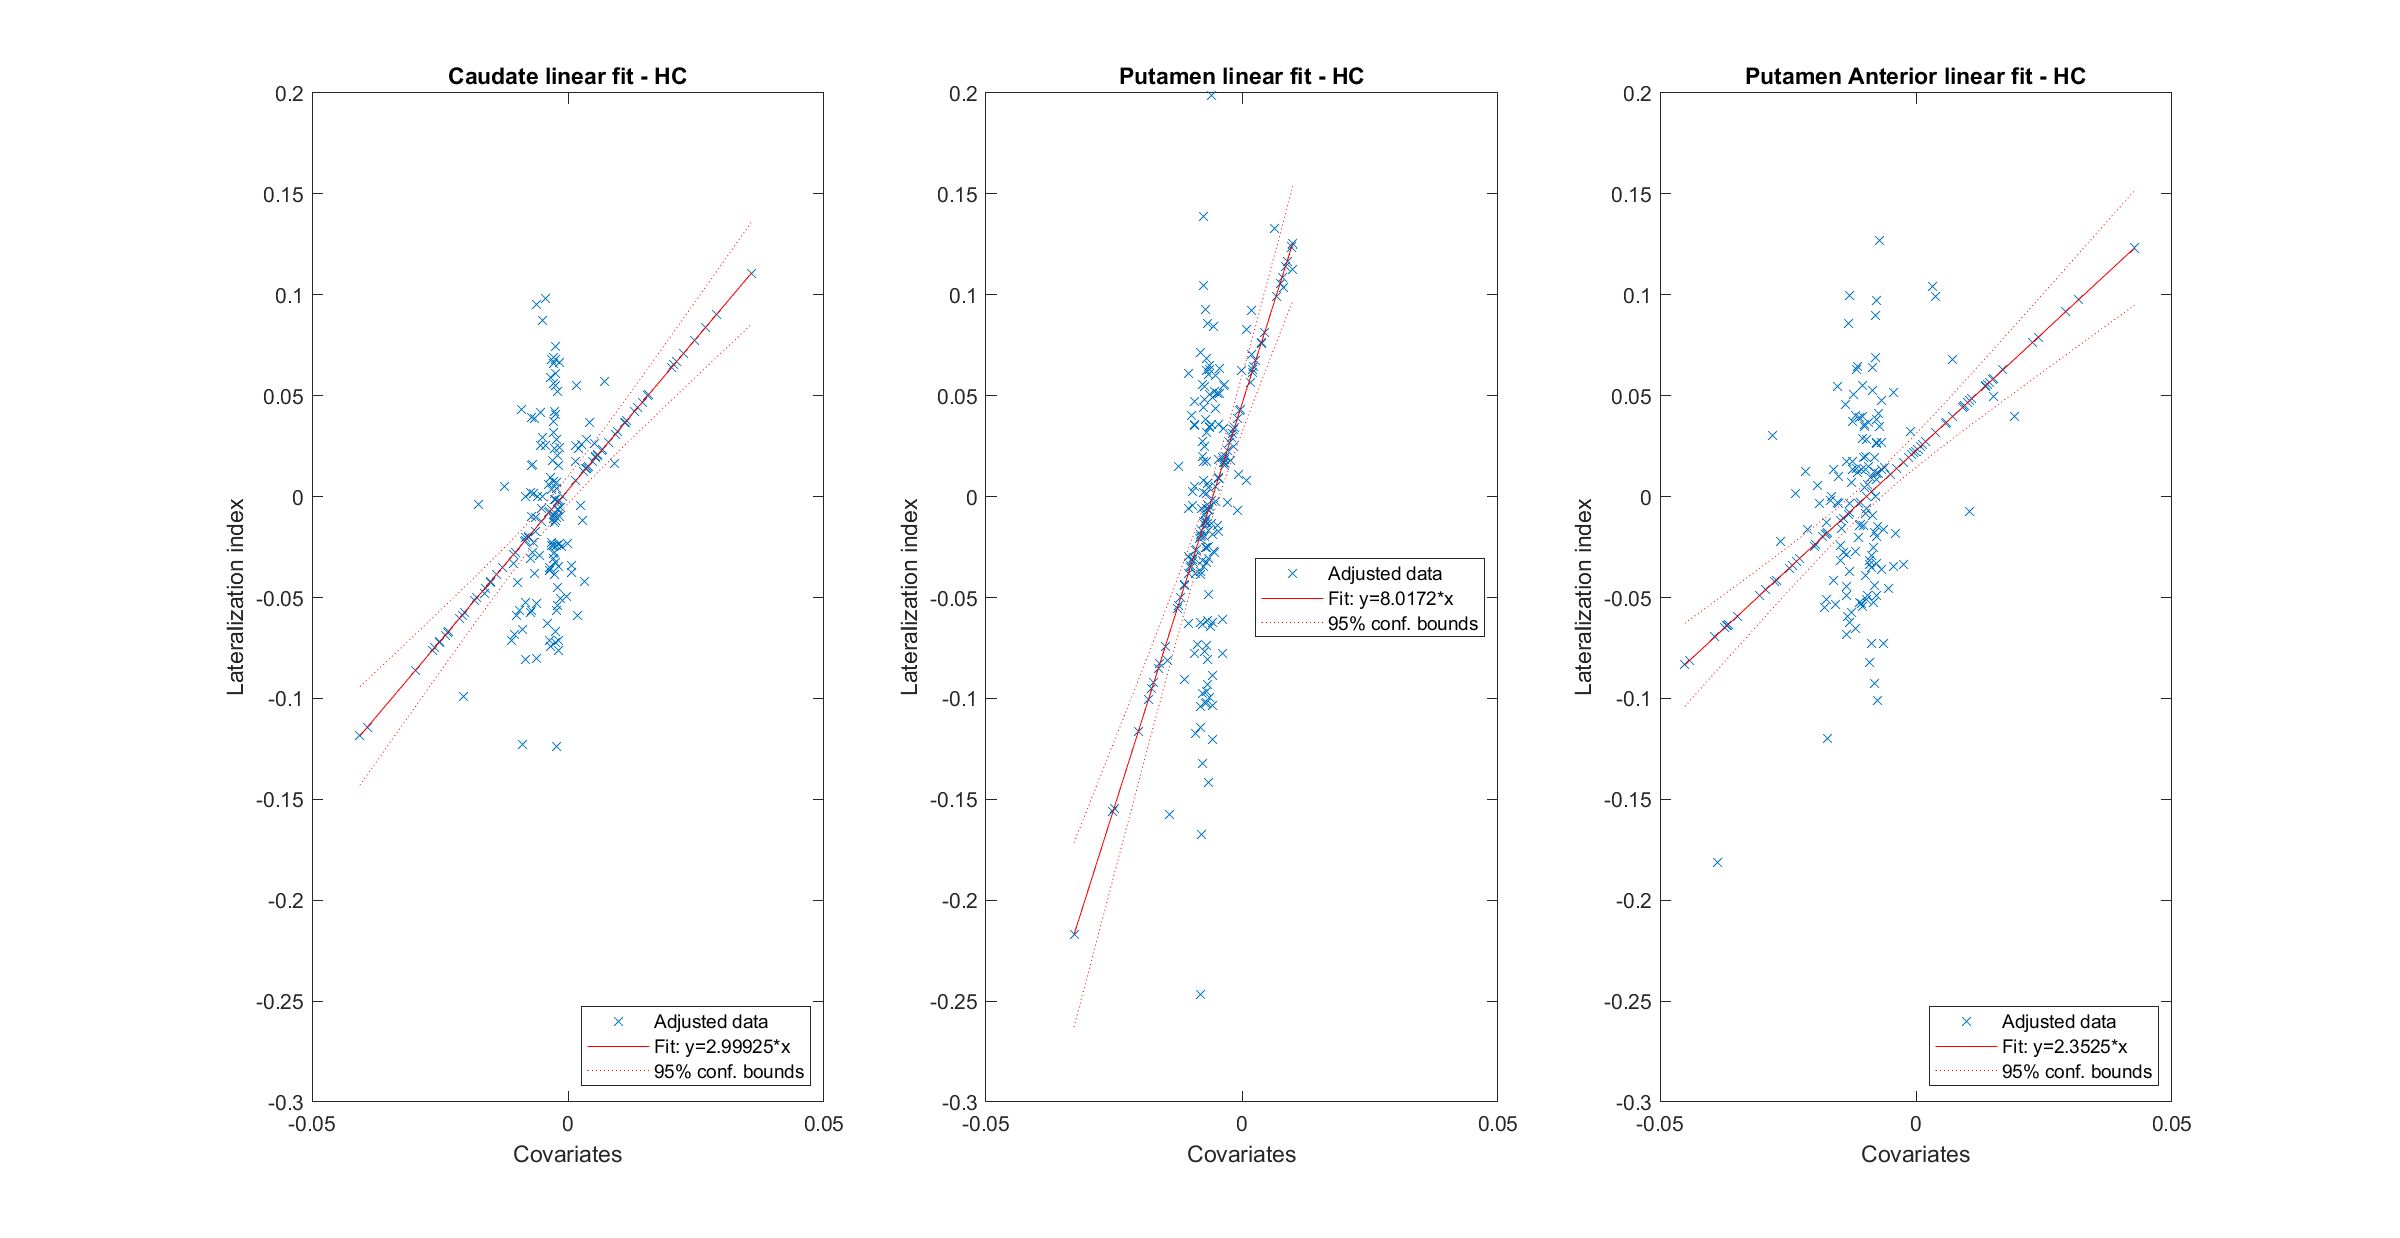
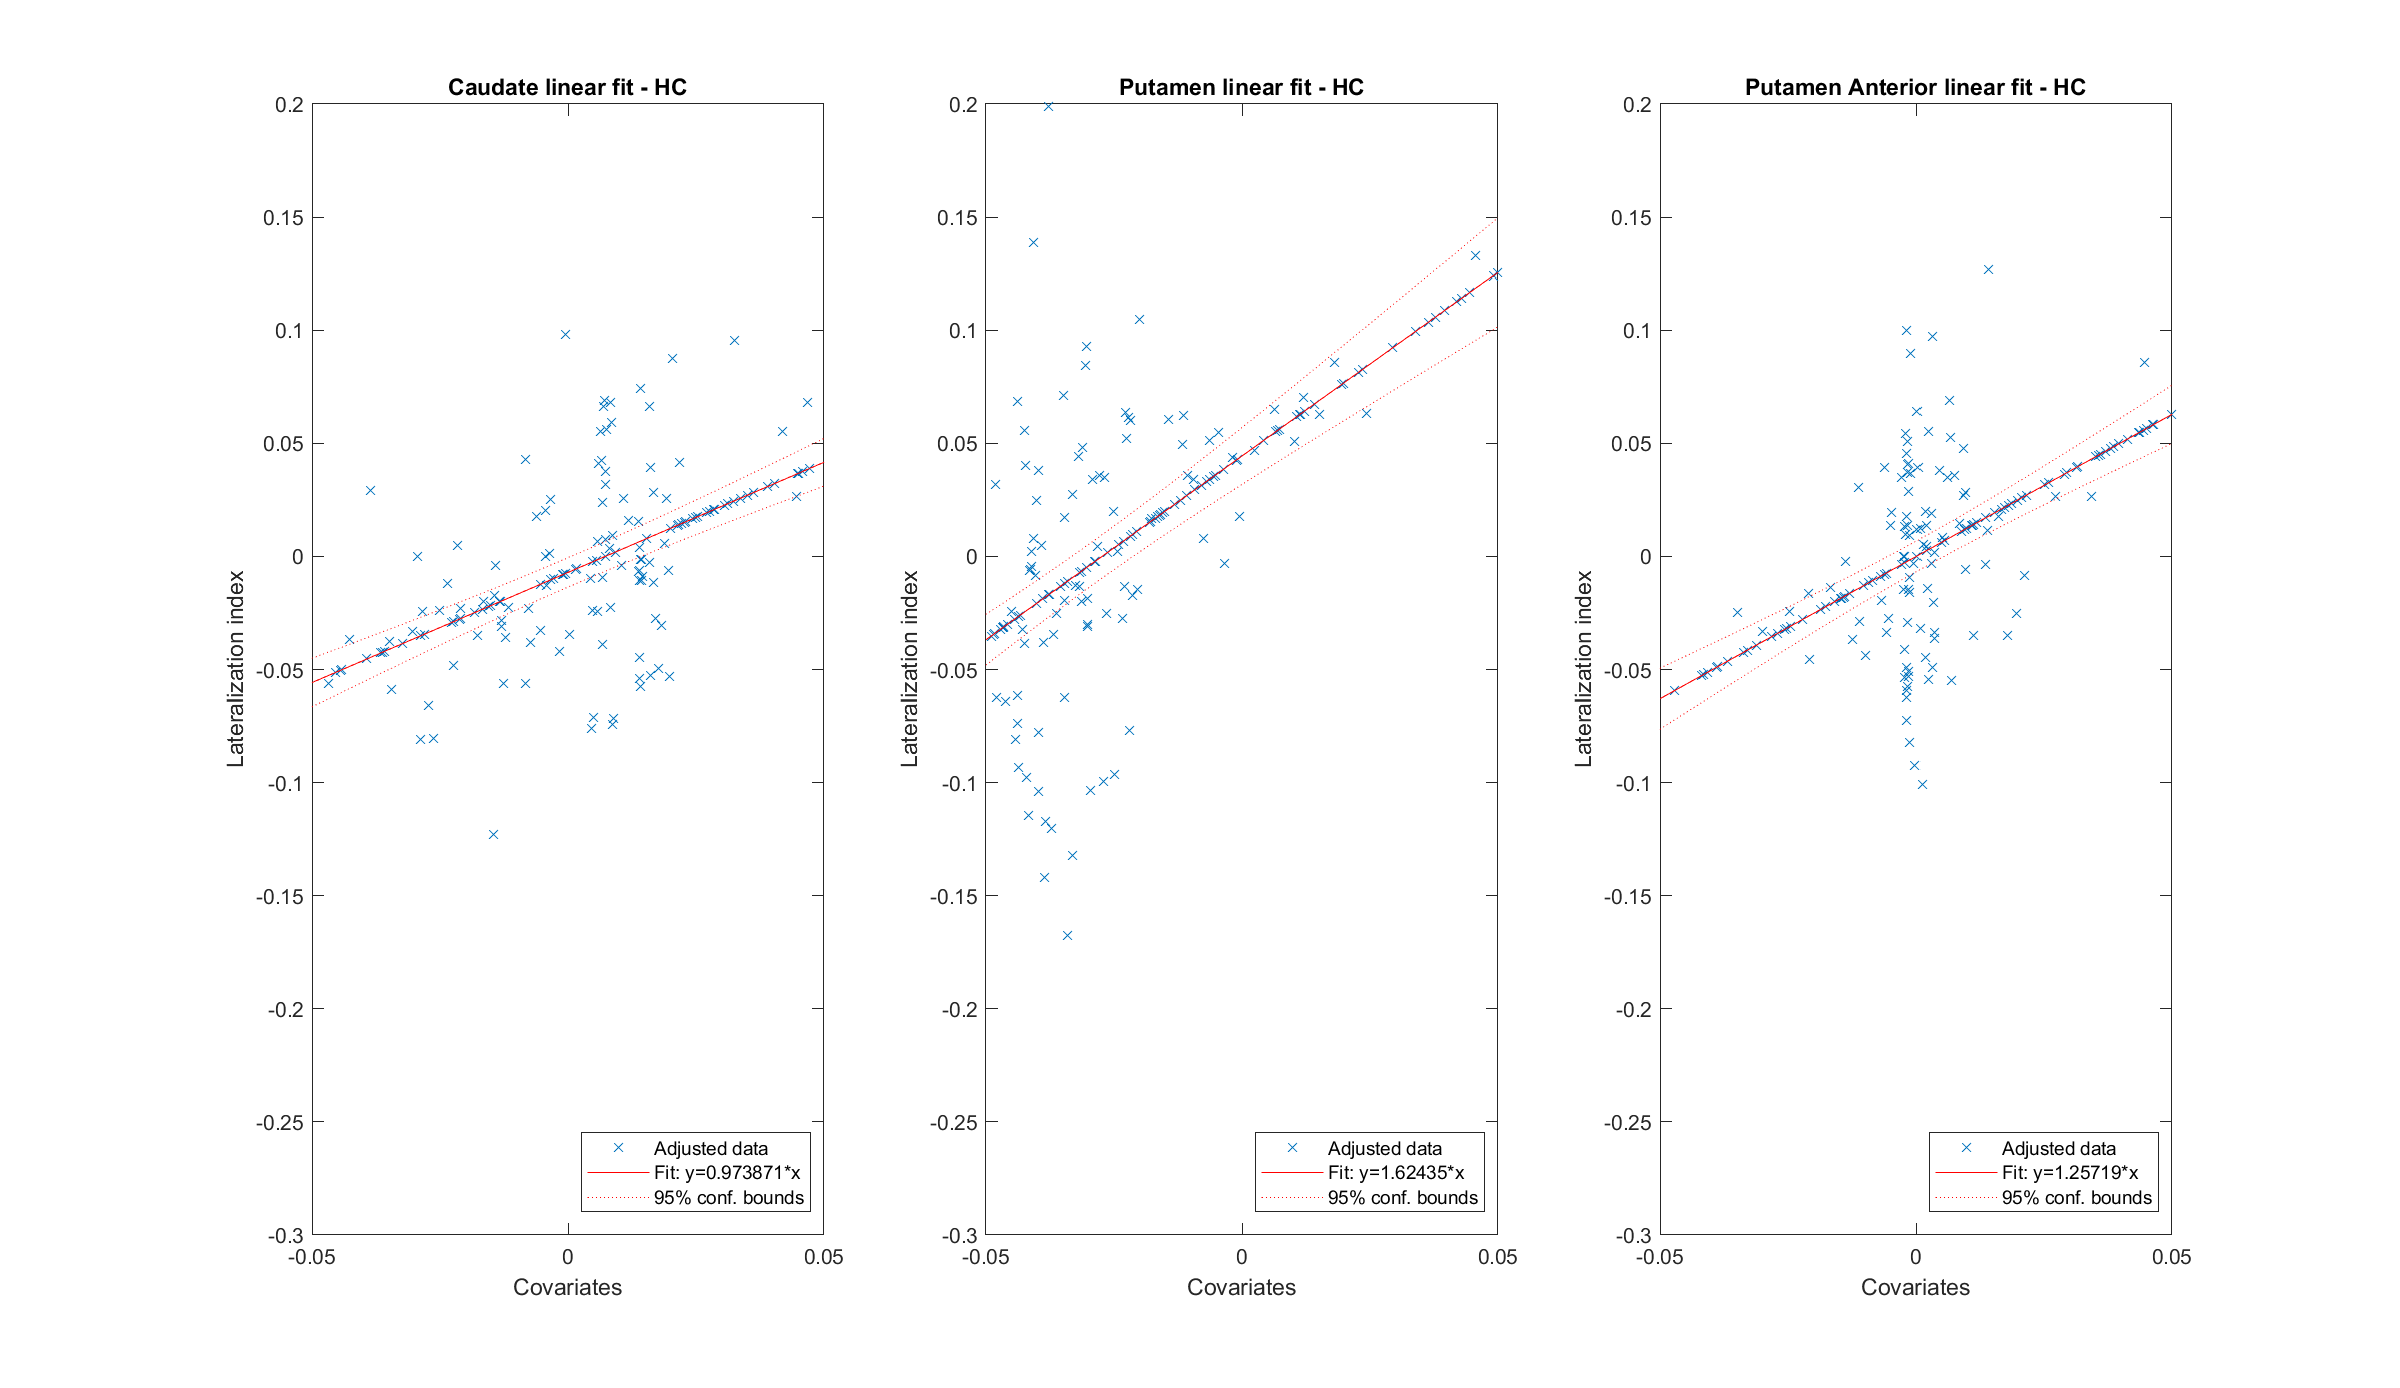
index asimmetria sintomi + cov hc

diff --git a/hm_biomarkers_new_version.m b/hm_biomarkers_new_version.m
@@ -380,7 +380,6 @@ LATERALIZATION_coeff.PUTAMEN.HC = abs(LATERALIZATION_coeff.PUTAMEN.HC);
 LATERALIZATION_coeff.PUTAMEN_ANT.HC = abs(LATERALIZATION_coeff.PUTAMEN_ANT.HC);
 
 %% VISUALISING LATERALIZATION
-<<<<<<< Updated upstream
 % difference_caudate_hc = mean(LATERALIZATION_coeff.CAUDATE.HC);
 % difference_caudate_pd = mean(LATERALIZATION_coeff.CAUDATE.PD);
 % 
@@ -411,7 +410,6 @@ LATERALIZATION_coeff.PUTAMEN_ANT.HC = abs(LATERALIZATION_coeff.PUTAMEN_ANT.HC);
 % legend('HC','PD')
 % 
 % 
-=======
 difference_caudate_hc = mean(LATERALIZATION_coeff.CAUDATE.HC);
 difference_caudate_pd = mean(LATERALIZATION_coeff.CAUDATE.PD);
 
@@ -440,9 +438,6 @@ title('Difference DAT_{left} - DAT_{right} for HC and PD')
 % xticklabels({'Caudate','Putamen','Putamen Anterior'})
 % yline(0)
 % legend('HC','PD')
-
-
->>>>>>> Stashed changes
 
 
 
@@ -587,7 +582,7 @@ axis equal
 covariates_to_save_hc = [];
 for i =1:size(R_corr_matrix_hc,1)
     for j = 1:size(R_corr_matrix_hc,2)
-        if p_corr_hc(i,j) < 0.05 && R_corr_matrix_hc(i,j) > 0.85
+        if p_corr_hc(i,j) < 0.05 && R_corr_matrix_hc(i,j) > 0.75
                 if (j < (size(R_corr_matrix_hc,1) -3)) && (i > (size(R_corr_matrix_hc,1) -3)) 
                     disp([covariates_hc.Properties.VariableNames{i}, ' correlated with ', covariates_hc.Properties.VariableNames{j}])
                     covariates_to_save_hc = [covariates_to_save_hc,  convertCharsToStrings(covariates_hc.Properties.VariableNames{j})];
@@ -635,13 +630,13 @@ covariates_to_save_pd  = unique(covariates_to_save_pd);
 
 %% LINEAR REGRESSION
 %% - HC
-covariates_hc = table2array(covariates_hc(:,contains(covariates_hc.Properties.VariableNames,covariates_to_save_hc)));
+covariates_hc_array = table2array(covariates_hc(:,contains(covariates_hc.Properties.VariableNames,covariates_to_save_hc)));
 
 figure(25)
 set(gcf, 'Position', get(0, 'Screensize'));
 
 subplot(131)
-model_caud_hc = fitlm(covariates_hc,NOT_ABS.LATERALIZATION_coeff.CAUDATE.HC,'interactions');
+model_caud_hc = fitlm(covariates_hc_array,NOT_ABS.LATERALIZATION_coeff.CAUDATE.HC,'interactions');
 plot(model_caud_hc)
 xlim([-0.05 0.05])
 ylim([-0.3 0.2])
@@ -650,7 +645,7 @@ ylabel('Lateralization index')
 title('Caudate linear fit - HC')
 
 subplot(132)
-model_put_hc = fitlm(covariates_hc,NOT_ABS.LATERALIZATION_coeff.PUTAMEN.HC,'interactions');
+model_put_hc = fitlm(covariates_hc_array,NOT_ABS.LATERALIZATION_coeff.PUTAMEN.HC,'interactions');
 plot(model_put_hc)
 xlim([-0.05 0.05])
 ylim([-0.3 0.2])
@@ -659,7 +654,7 @@ ylabel('Lateralization index')
 title('Putamen linear fit - HC')
 
 subplot(133)
-model_put_ant_hc = fitlm(covariates_hc,NOT_ABS.LATERALIZATION_coeff.PUTAMEN_ANT.HC,'interactions');
+model_put_ant_hc = fitlm(covariates_hc_array,NOT_ABS.LATERALIZATION_coeff.PUTAMEN_ANT.HC,'interactions');
 plot(model_put_ant_hc)
 xlim([-0.05 0.05])
 ylim([-0.3 0.2])
@@ -675,15 +670,15 @@ anova_put_hc = anova(model_put_hc,'summary');
 anova_put_ant_hc =  anova(model_put_ant_hc,'summary');
 
 %% - PD
-covariates_pd = table2array(covariates_pd(:,contains(covariates_pd.Properties.VariableNames,covariates_to_save_pd)));
-EXCLUDE = [2,3,7,10,13,20,25,26,40];
-covariates_pd(:,EXCLUDE) = [];
+covariates_pd_array = table2array(covariates_pd(:,contains(covariates_pd.Properties.VariableNames,covariates_to_save_hc)));
+% EXCLUDE = [2,3,7,10,13,20,25,26,40];
+% covariates_pd(:,EXCLUDE) = [];
 
 figure(26)
 set(gcf, 'Position', get(0, 'Screensize'));
 
 subplot(131)
-model_caud_pd = fitlm(covariates_pd,NOT_ABS.LATERALIZATION_coeff.CAUDATE.PD,'interactions');
+model_caud_pd = fitlm(covariates_pd_array,NOT_ABS.LATERALIZATION_coeff.CAUDATE.PD);
 plot(model_caud_pd)
 xlim([-0.5 0.6])
 ylim([-0.6 0.8])
@@ -692,7 +687,7 @@ ylabel('Lateralization index')
 title('Caudate linear fit - PD')
 
 subplot(132)
-model_put_pd = fitlm(covariates_pd,NOT_ABS.LATERALIZATION_coeff.PUTAMEN.PD,'interactions');
+model_put_pd = fitlm(covariates_pd_array,NOT_ABS.LATERALIZATION_coeff.PUTAMEN.PD);
 plot(model_put_pd)
 xlim([-0.5 0.6])
 ylim([-0.6 0.8])
@@ -701,7 +696,7 @@ ylabel('Lateralization index')
 title('Putamen linear fit - PD')
 
 subplot(133)
-model_put_ant_pd = fitlm(covariates_pd,NOT_ABS.LATERALIZATION_coeff.PUTAMEN_ANT.PD,'interactions');
+model_put_ant_pd = fitlm(covariates_pd_array,NOT_ABS.LATERALIZATION_coeff.PUTAMEN_ANT.PD);
 plot(model_put_ant_pd)
 xlim([-0.5 0.6])
 ylim([-0.6 0.8])
@@ -718,19 +713,32 @@ anova_put_ant_pd = anova(model_put_ant_pd,'summary');
 
 %% SIMPTOMS LATERALITY INDEX
 
+rigidity_upper = (data_pd.NP3RIGRU -data_pd.NP3RIGLU)./(data_pd.NP3RIGRU + data_pd.NP3RIGLU);  
+rigidity_lower = (data_pd.NP3RIGRL -data_pd.NP3RIGLL)./(data_pd.NP3RIGRL + data_pd.NP3RIGLL);
+tap_hand = (data_pd.NP3FTAPR - data_pd.NP3FTAPL)./(data_pd.NP3FTAPR + data_pd.NP3FTAPL);
+move_hand = (data_pd.NP3HMOVL - data_pd.NP3HMOVR)./(data_pd.NP3HMOVL + data_pd.NP3HMOVR); 
+pu_hand = (data_pd.NP3PRSPR - data_pd.NP3PRSPL)./(data_pd.NP3PRSPR + data_pd.NP3PRSPL);  
+tap_foot = (data_pd.NP3TTAPR - data_pd.NP3TTAPL)./(data_pd.NP3TTAPR + data_pd.NP3TTAPL);
+tap_leg = (data_pd.NP3LGAGR - data_pd.NP3LGAGL)./(data_pd.NP3LGAGR + data_pd.NP3LGAGL);
+post_trem_leg =  (data_pd.NP3PTRMR - data_pd.NP3PTRML)./((data_pd.NP3PTRMR + data_pd.NP3PTRML));
+kin_trem_hand = (data_pd.NP3KTRMR-data_pd.NP3KTRML)./(data_pd.NP3KTRMR + data_pd.NP3KTRML);
+rest_trem_up = (data_pd.NP3RTARU - data_pd.NP3RTALU)./(data_pd.NP3RTARU + data_pd.NP3RTALU);
+rest_trem_low = (data_pd.NP3RTARL - data_pd.NP3RTALL)./(data_pd.NP3RTARL + data_pd.NP3RTALL);
 
 
+sintomi_lat = [rigidity_upper';rigidity_lower';tap_hand';move_hand';pu_hand';tap_foot';tap_leg';post_trem_leg';kin_trem_hand';rest_trem_up';rest_trem_low']';
 
+model_sintomi_lat_caud = fitlm(sintomi_lat,NOT_ABS.LATERALIZATION_coeff.CAUDATE.PD);
+model_sintomi_lat_put = fitlm(sintomi_lat,NOT_ABS.LATERALIZATION_coeff.PUTAMEN.PD);
+model_sintomi_lat_put_ant = fitlm(sintomi_lat,NOT_ABS.LATERALIZATION_coeff.PUTAMEN_ANT.PD);
 
-
-
-
-
-
-
-
-
-
+figure
+subplot(131)
+plot(model_sintomi_lat_caud)
+subplot(132)
+plot(model_sintomi_lat_put)
+subplot(133)
+plot(model_sintomi_lat_put_ant)
 
 
 
